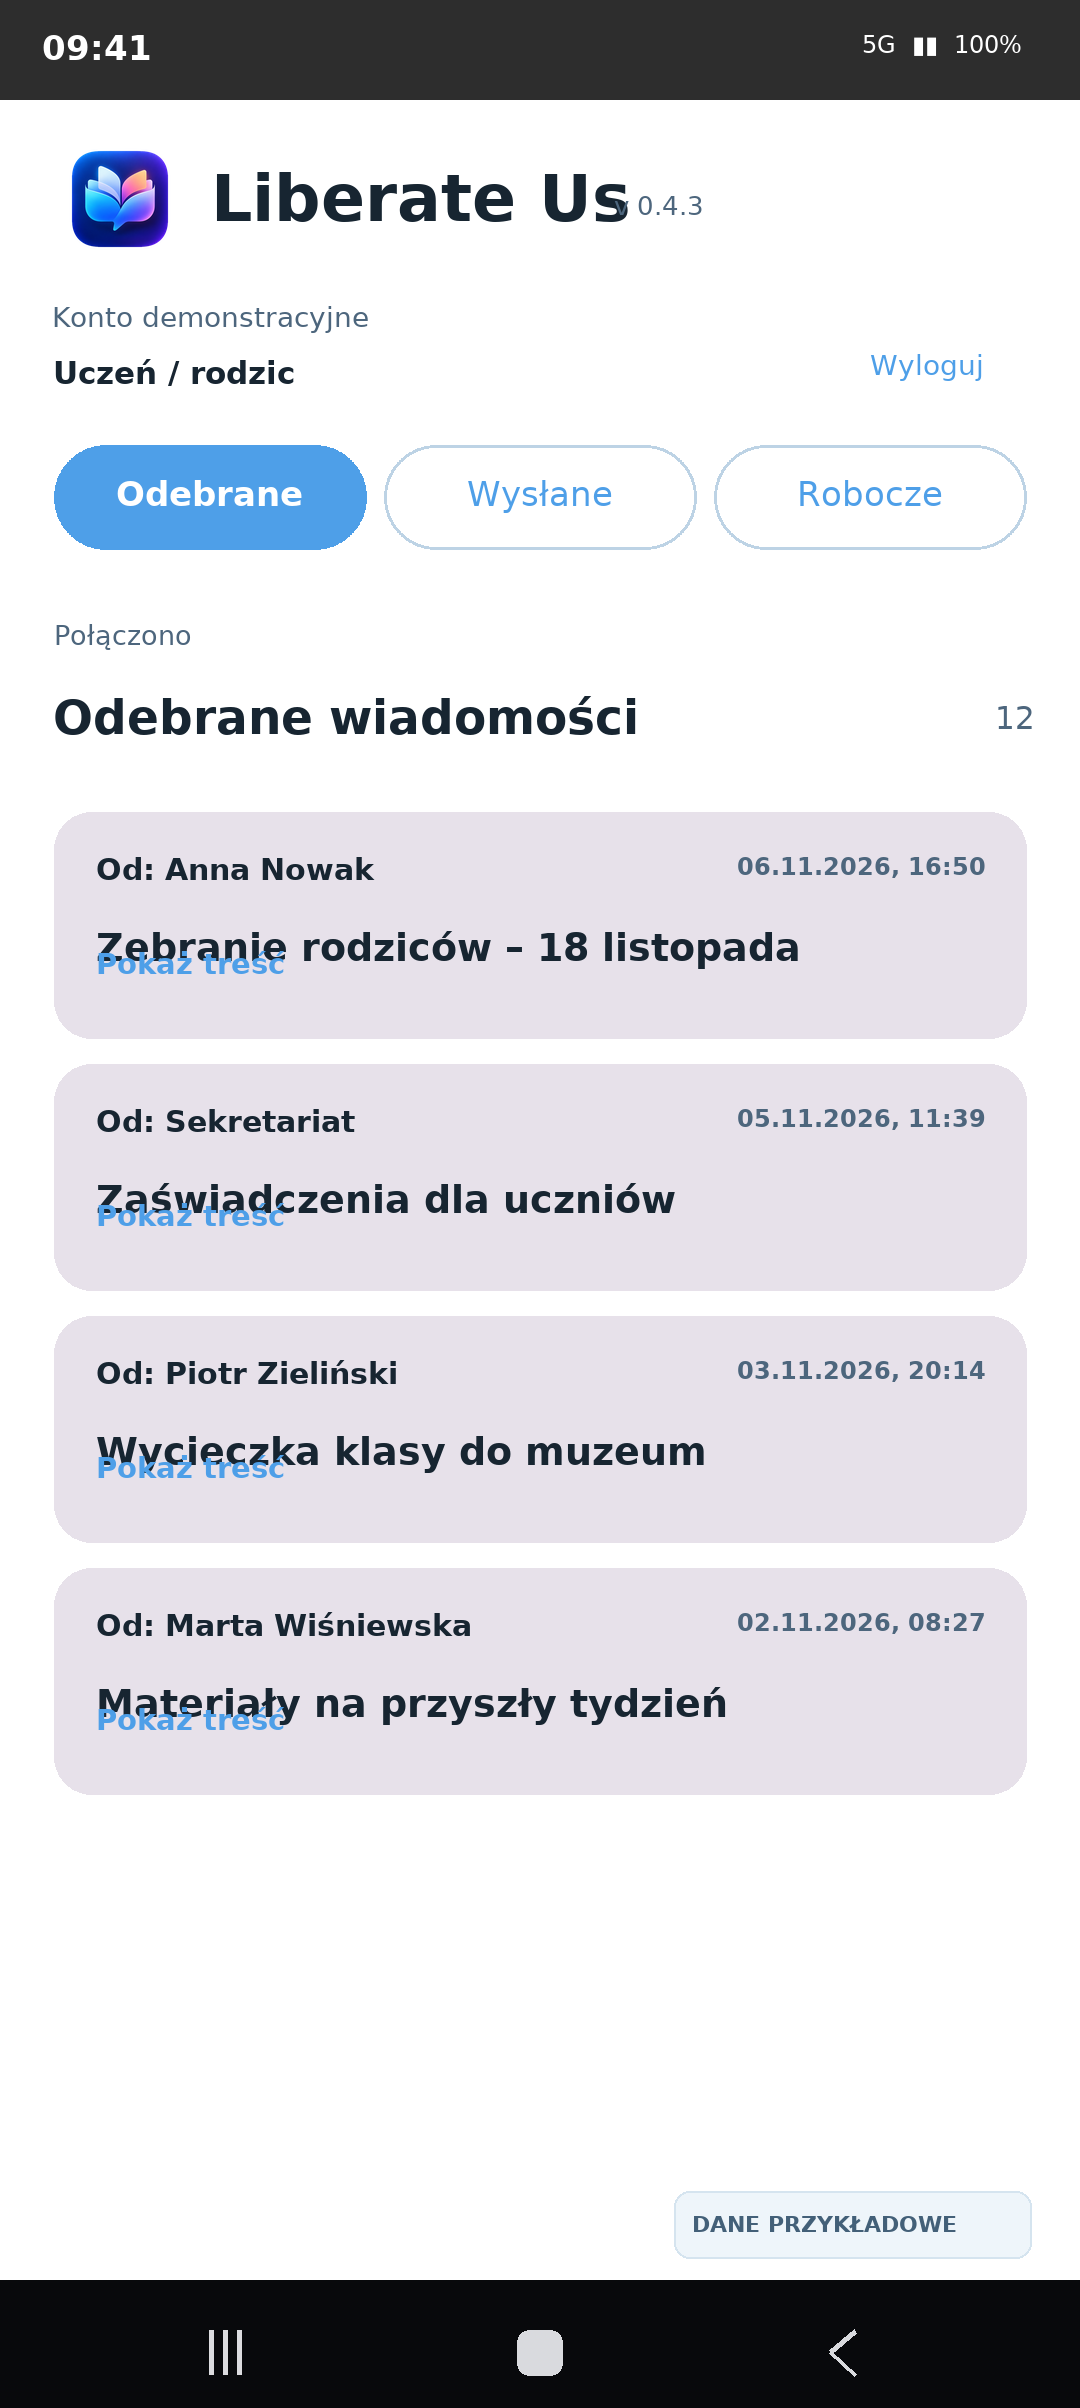
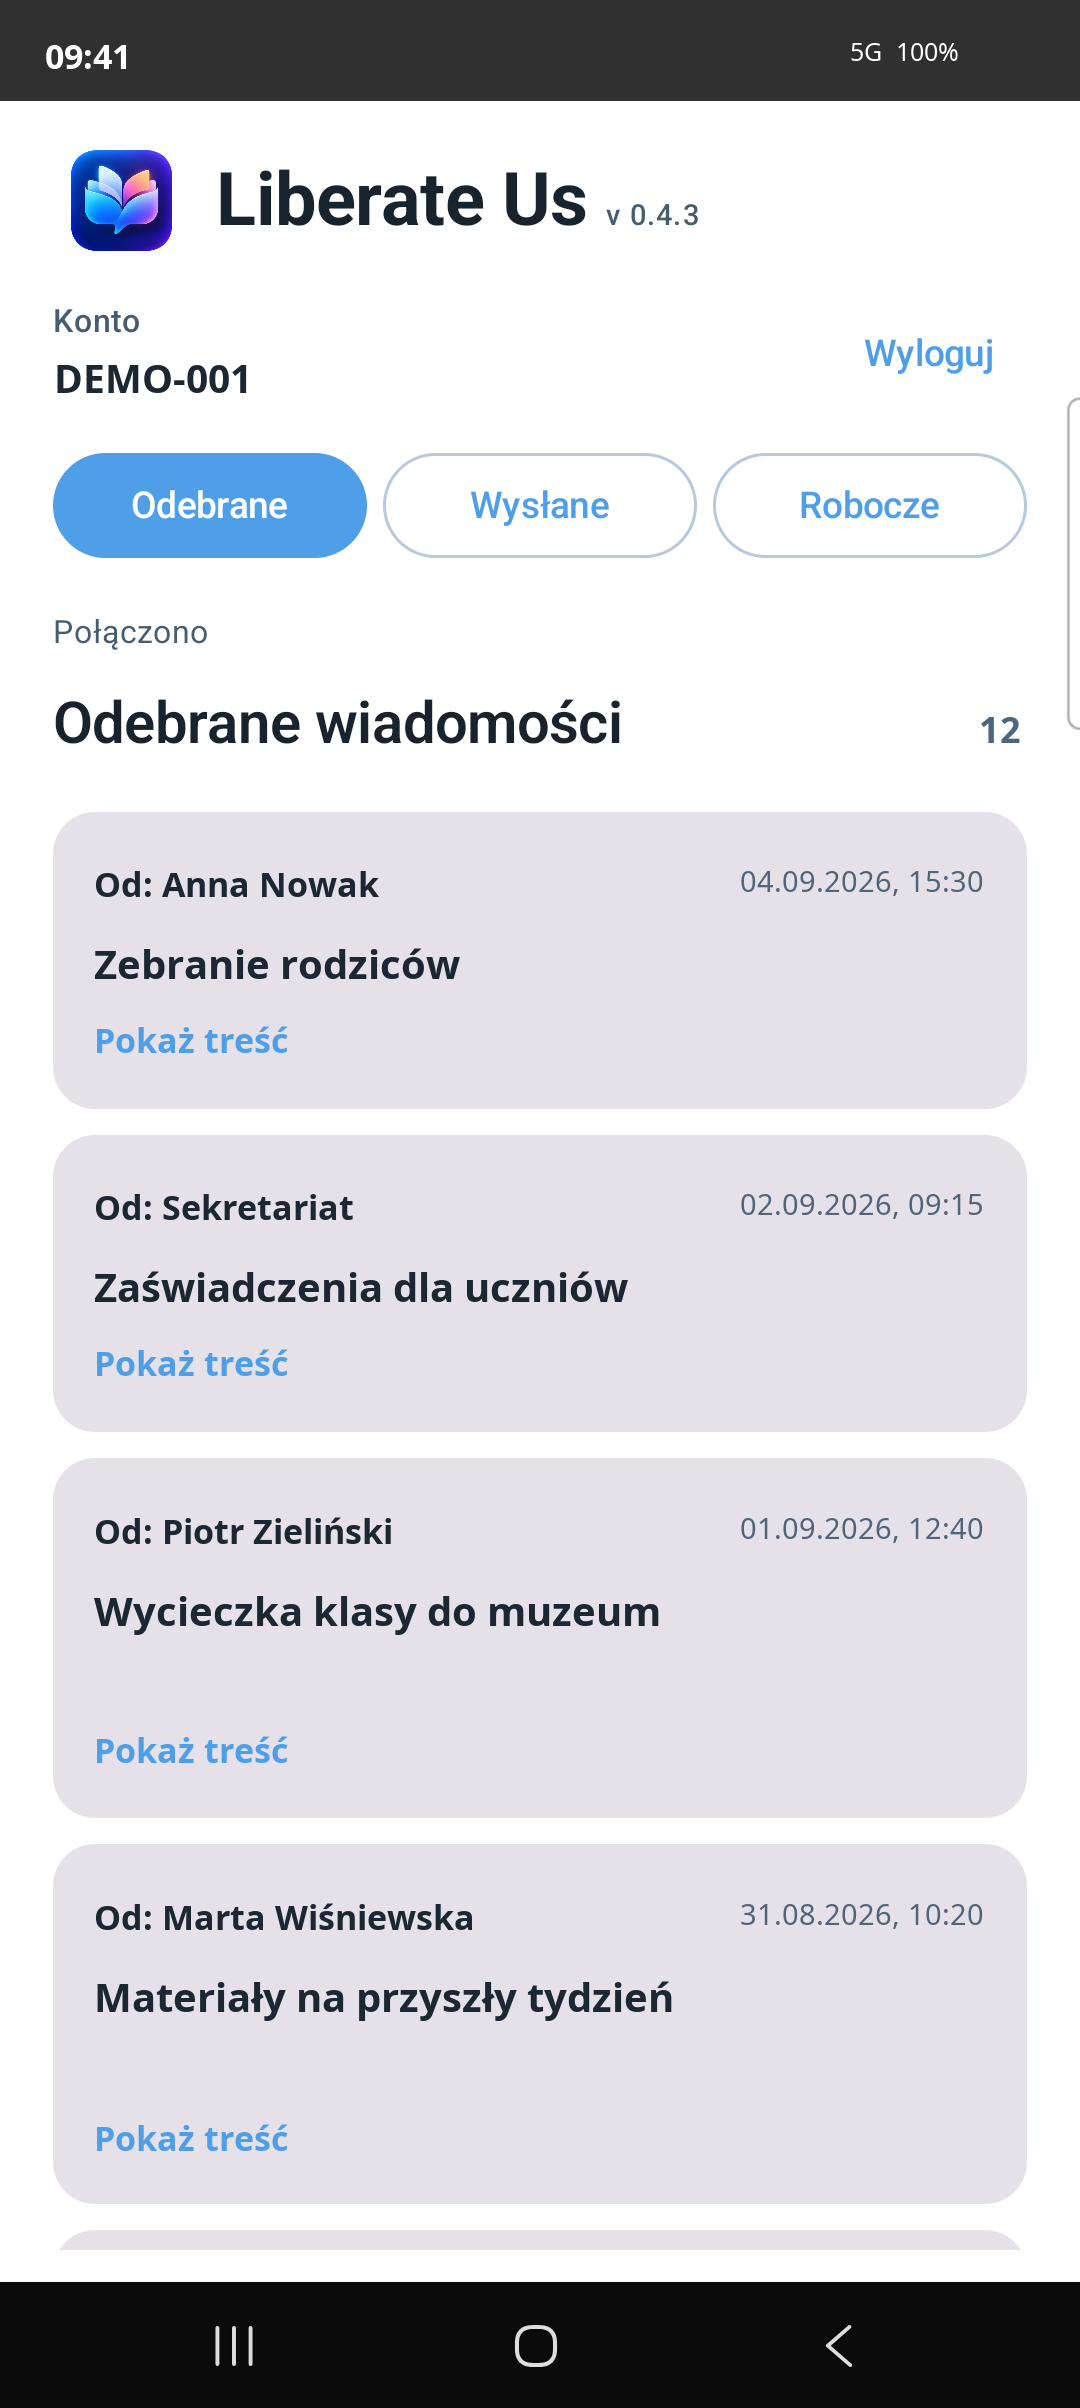
website: replace synthetic mockups with anonymized real UI screenshots

diff --git a/index.html b/index.html
@@ -87,13 +87,13 @@
       <div class="section-intro">
         <div class="section-kicker" data-i18n="screensKicker">ZOBACZ APLIKACJĘ</div>
         <h2 data-i18n="screensHeading">Zaprojektowana dla codziennej komunikacji.</h2>
-        <p data-i18n="screensLead">Galeria prezentuje wygląd aplikacji na przykładowych danych. Wszystkie osoby, tematy i wiadomości są fikcyjne; obrazy są rekonstrukcjami demonstracyjnymi.</p>
+        <p data-i18n="screensLead">Rzeczywiste zrzuty interfejsu Liberate Us z danymi demonstracyjnymi. Wszystkie nazwiska, tematy i treści wiadomości zastąpiono fikcyjnymi.</p>
       </div>
       <div class="screenshots-grid">
         <div class="screen-preview">
           <a class="gallery-image-link" href="assets/gallery/01-odebrane.png" target="_blank" rel="noopener noreferrer" aria-label="Otwórz widok demonstracyjny: Odebrane">
             <div class="preview-stage">
-              <img src="assets/gallery/01-odebrane.png" alt="Odebrane — demonstracyjny ekran Liberate Us z fikcyjnymi danymi" loading="lazy" decoding="async" width="1080" height="2408">
+              <img src="assets/gallery/01-odebrane.png" alt="Odebrane — interfejs Liberate Us z fikcyjnymi danymi" loading="lazy" decoding="async" width="1080" height="2408">
             </div>
           </a>
           <div class="preview-caption"><span>01</span><strong data-i18n="screenInbox">Odebrane</strong></div>
@@ -101,7 +101,7 @@
         <div class="screen-preview">
           <a class="gallery-image-link" href="assets/gallery/02-wiadomosc.png" target="_blank" rel="noopener noreferrer" aria-label="Otwórz widok demonstracyjny: Czytanie wiadomości">
             <div class="preview-stage">
-              <img src="assets/gallery/02-wiadomosc.png" alt="Czytanie wiadomości — demonstracyjny ekran Liberate Us z fikcyjnymi danymi" loading="lazy" decoding="async" width="1080" height="2408">
+              <img src="assets/gallery/02-wiadomosc.png" alt="Czytanie wiadomości — interfejs Liberate Us z fikcyjnymi danymi" loading="lazy" decoding="async" width="1080" height="2408">
             </div>
           </a>
           <div class="preview-caption"><span>02</span><strong data-i18n="screenReading">Czytanie wiadomości</strong></div>
@@ -109,7 +109,7 @@
         <div class="screen-preview">
           <a class="gallery-image-link" href="assets/gallery/03-wyslane.png" target="_blank" rel="noopener noreferrer" aria-label="Otwórz widok demonstracyjny: Wysłane">
             <div class="preview-stage">
-              <img src="assets/gallery/03-wyslane.png" alt="Wysłane — demonstracyjny ekran Liberate Us z fikcyjnymi danymi" loading="lazy" decoding="async" width="1080" height="2408">
+              <img src="assets/gallery/03-wyslane.png" alt="Wysłane — interfejs Liberate Us z fikcyjnymi danymi" loading="lazy" decoding="async" width="1080" height="2408">
             </div>
           </a>
           <div class="preview-caption"><span>03</span><strong data-i18n="screenSent">Wysłane</strong></div>
@@ -117,7 +117,7 @@
         <div class="screen-preview">
           <a class="gallery-image-link" href="assets/gallery/04-edytor.png" target="_blank" rel="noopener noreferrer" aria-label="Otwórz widok demonstracyjny: Nowa wiadomość">
             <div class="preview-stage">
-              <img src="assets/gallery/04-edytor.png" alt="Nowa wiadomość — demonstracyjny ekran Liberate Us z fikcyjnymi danymi" loading="lazy" decoding="async" width="1080" height="2408">
+              <img src="assets/gallery/04-edytor.png" alt="Nowa wiadomość — interfejs Liberate Us z fikcyjnymi danymi" loading="lazy" decoding="async" width="1080" height="2408">
             </div>
           </a>
           <div class="preview-caption"><span>04</span><strong data-i18n="screenComposer">Nowa wiadomość</strong></div>
@@ -125,7 +125,7 @@
         <div class="screen-preview">
           <a class="gallery-image-link" href="assets/gallery/05-odbiorcy.png" target="_blank" rel="noopener noreferrer" aria-label="Otwórz widok demonstracyjny: Wybór odbiorców">
             <div class="preview-stage">
-              <img src="assets/gallery/05-odbiorcy.png" alt="Wybór odbiorców — demonstracyjny ekran Liberate Us z fikcyjnymi danymi" loading="lazy" decoding="async" width="1080" height="2408">
+              <img src="assets/gallery/05-odbiorcy.png" alt="Wybór odbiorców — interfejs Liberate Us z fikcyjnymi danymi" loading="lazy" decoding="async" width="1080" height="2408">
             </div>
           </a>
           <div class="preview-caption"><span>05</span><strong data-i18n="screenRecipients">Wybór odbiorców</strong></div>

diff --git a/script.js b/script.js
@@ -14,7 +14,7 @@ const strings = {
     f4Title:"Powiadomienia",f4Desc:"Okresowe sprawdzanie nowych wiadomości i powiadomienia na Androidzie.",
     f5Title:"Dostęp offline",f5Desc:"Odczytuj zapisane lokalnie wiadomości również bez połączenia z internetem.",
     f6Title:"Otwarty kod",f6Desc:"Projekt na licencji MIT. Kod i historia zmian są publicznie dostępne na GitHubie.",
-    screensKicker:"ZOBACZ APLIKACJĘ",screensHeading:"Zaprojektowana dla codziennej komunikacji.",screensLead:"Galeria prezentuje wygląd aplikacji na przykładowych danych. Wszystkie osoby, tematy i wiadomości są fikcyjne; obrazy są rekonstrukcjami demonstracyjnymi.",previewLabel:"MIEJSCE NA ZRZUT EKRANU",screenInbox:"Odebrane",screenReading:"Czytanie wiadomości",screenSent:"Wysłane",screenComposer:"Nowa wiadomość",screenRecipients:"Wybór odbiorców",
+    screensKicker:"ZOBACZ APLIKACJĘ",screensHeading:"Zaprojektowana dla codziennej komunikacji.",screensLead:"Rzeczywiste zrzuty interfejsu Liberate Us z danymi demonstracyjnymi. Wszystkie nazwiska, tematy i treści wiadomości zastąpiono fikcyjnymi.",previewLabel:"MIEJSCE NA ZRZUT EKRANU",screenInbox:"Odebrane",screenReading:"Czytanie wiadomości",screenSent:"Wysłane",screenComposer:"Nowa wiadomość",screenRecipients:"Wybór odbiorców",
     aboutKicker:"ZA KULISAMI",aboutHeading:"Niezależny projekt.<br><span>Otwarty rozwój.</span>",
     aboutP1:"Liberate Us powstaje jako niezależna alternatywa dla obsługi wiadomości w Librus Synergia. To projekt rozwijany publicznie — nowe funkcje, poprawki i kolejne wydania pojawiają się na GitHubie.",
     aboutP2:"Aplikacja została stworzona metodą vibe codingu, ze znacznym wykorzystaniem narzędzi AI. Jest udostępniana bez gwarancji, w stanie „as is”. Korzystasz z niej na własne ryzyko.",
@@ -41,7 +41,7 @@ const strings = {
     f4Title:"Notifications",f4Desc:"Periodic checks for new messages and Android notifications.",
     f5Title:"Offline access",f5Desc:"Read locally cached messages even without an internet connection.",
     f6Title:"Open source",f6Desc:"MIT-licensed project. Source code and development history are available on GitHub.",
-    screensKicker:"SEE THE APPLICATION",screensHeading:"Built for everyday communication.",screensLead:"These illustrative app screens use entirely fictional names, subjects and messages. They are demonstration reconstructions, not unedited screenshots.",previewLabel:"SCREENSHOT PLACEHOLDER",screenInbox:"Inbox",screenReading:"Reading messages",screenSent:"Sent",screenComposer:"Compose message",screenRecipients:"Choose recipients",
+    screensKicker:"SEE THE APPLICATION",screensHeading:"Built for everyday communication.",screensLead:"Real screenshots of the Liberate Us interface with demonstration data. Names, message subjects and correspondence have been replaced with fictional examples.",previewLabel:"SCREENSHOT PLACEHOLDER",screenInbox:"Inbox",screenReading:"Reading messages",screenSent:"Sent",screenComposer:"Compose message",screenRecipients:"Choose recipients",
     aboutKicker:"BEHIND THE PROJECT",aboutHeading:"Independent project.<br><span>Open development.</span>",
     aboutP1:"Liberate Us is an independent alternative for handling messages in Librus Synergia. Development happens in public, with new features, fixes, and releases published on GitHub.",
     aboutP2:"The application was developed through vibe coding, with extensive use of AI tools. It is provided as is, without warranties. You use it at your own risk.",
